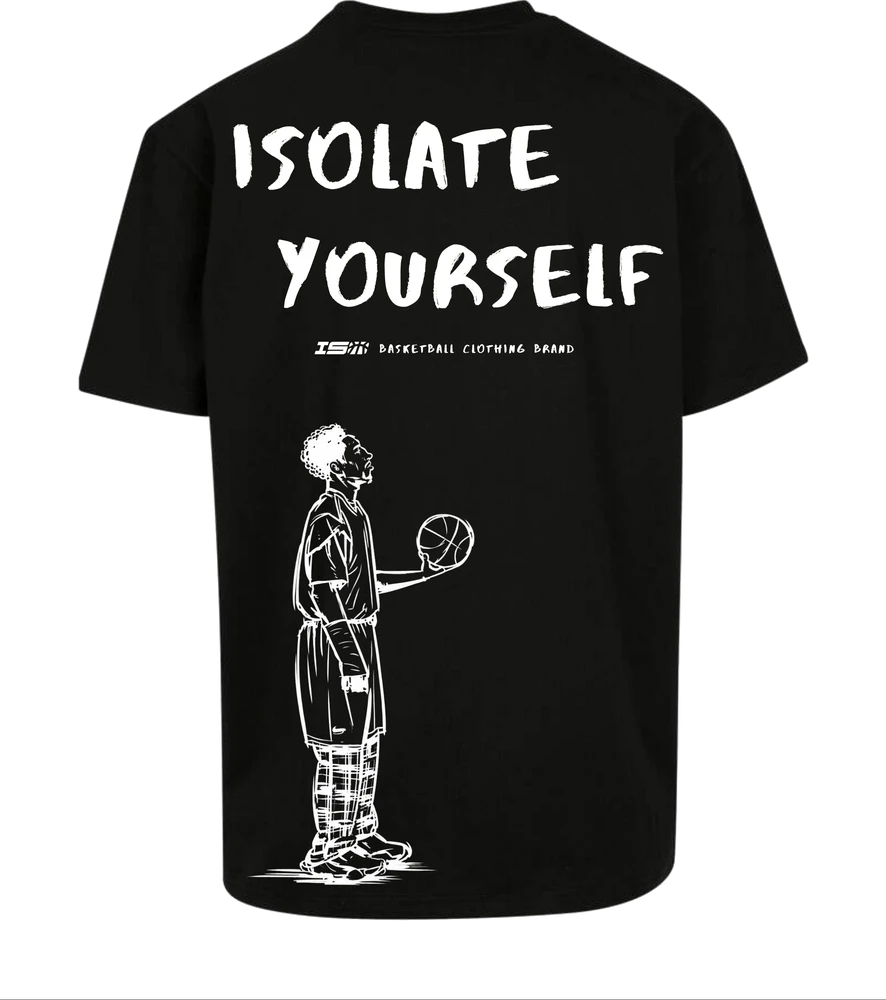
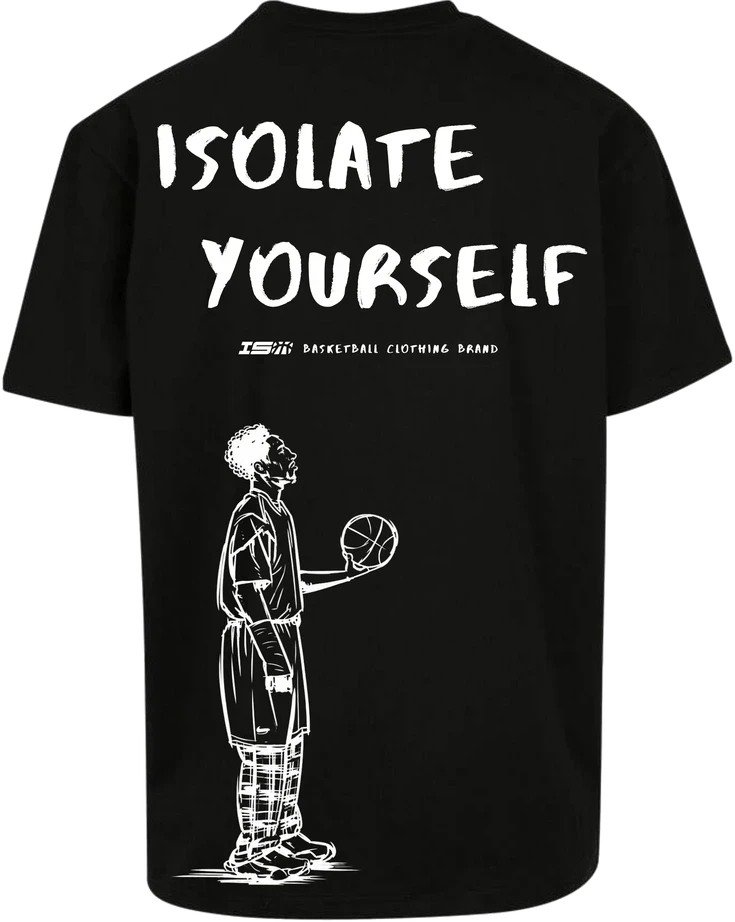
Preventa: prendas sobre fondo blanco (tarjetas y ficha), sin la línea de sombra de los mockups
Claude-Session: https://claude.ai/code/session_01W5ky4QjpNWCBcPcfCA4882

Changed region(s): [[0.0, 0.0, 1.0, 1.0], [0.2694, 0.243, 0.8082, 0.3948]]

diff --git a/src/components/presale.css b/src/components/presale.css
@@ -20,7 +20,7 @@
   aspect-ratio: 4 / 5;
   display: grid;
   place-items: center;
-  background: radial-gradient(85% 75% at 50% 42%, #2a2a29 0%, #1b1b1a 55%, #141413 100%);
+  background: #f4f4f2;
   overflow: hidden;
 }
 /* Fotos apiladas: la activa entra con fundido y un zoom muy suave */
@@ -33,7 +33,7 @@
   opacity: 0;
   transform: scale(1.06);
   transition: opacity 0.6s ease, transform 1.4s cubic-bezier(0.16, 1, 0.3, 1);
-  filter: drop-shadow(0 18px 18px rgba(0, 0, 0, 0.5));
+  filter: drop-shadow(0 14px 16px rgba(0, 0, 0, 0.16));
   user-select: none;
 }
 .ps-img.on { opacity: 1; transform: scale(1); }
@@ -48,8 +48,8 @@
   opacity: 0;
   transition: opacity 0.3s;
 }
-.ps-dots i { flex: 1; height: 2px; background: rgba(242, 237, 229, 0.2); transition: background 0.3s; }
-.ps-dots i.on { background: var(--white); }
+.ps-dots i { flex: 1; height: 2px; background: rgba(13, 13, 13, 0.15); transition: background 0.3s; }
+.ps-dots i.on { background: #0d0d0d; }
 .ps-card.is-hover .ps-dots { opacity: 1; }
 
 /* Tallas rápidas */
@@ -104,7 +104,7 @@
   font-size: 0.72rem;
   letter-spacing: 0.22em;
   text-transform: uppercase;
-  color: var(--white-dim);
+  color: #8a8a86;
   opacity: 0.6;
 }
 .ps-hover {
@@ -196,7 +196,7 @@
   place-items: center;
   padding: 3rem 2rem 4.5rem;
   background:
-    radial-gradient(60% 60% at 50% 45%, #2b2b2b 0%, #161616 60%, #0d0d0d 100%);
+    #f4f4f2;
   overflow: hidden;
   perspective: 1400px;
   touch-action: pan-y;
@@ -232,7 +232,7 @@
   object-fit: contain;
   backface-visibility: hidden;
   -webkit-backface-visibility: hidden;
-  filter: drop-shadow(0 24px 24px rgba(0, 0, 0, 0.55));
+  filter: drop-shadow(0 18px 20px rgba(0, 0, 0, 0.18));
 }
 .ps-face.back { transform: rotateY(180deg); }
 .ps-face.back.only { transform: none; }
@@ -281,11 +281,11 @@
   width: 40px;
   height: 40px;
   border-radius: 50%;
-  border: 1px solid rgba(242, 237, 229, 0.18);
-  color: var(--white);
+  border: 1px solid rgba(13, 13, 13, 0.18);
+  color: #0d0d0d;
   font-size: 1rem;
 }
-.ps-nav:hover { border-color: var(--accent); color: var(--accent); }
+.ps-nav:hover { border-color: #0d0d0d; background: #0d0d0d; color: #f4f4f2; }
 .ps-nav.prev { left: 1rem; }
 .ps-nav.next { right: 1rem; }
 
